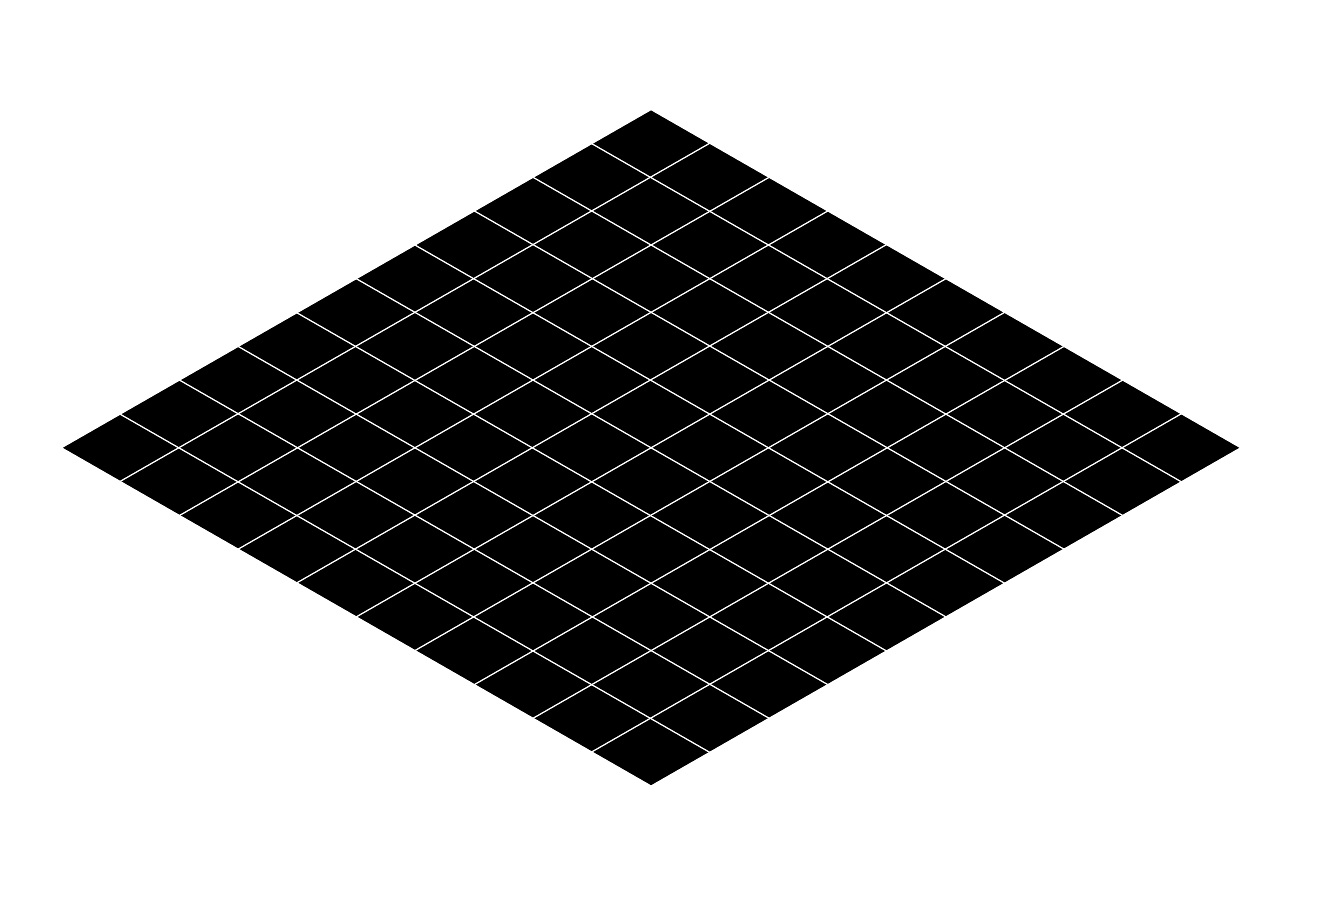
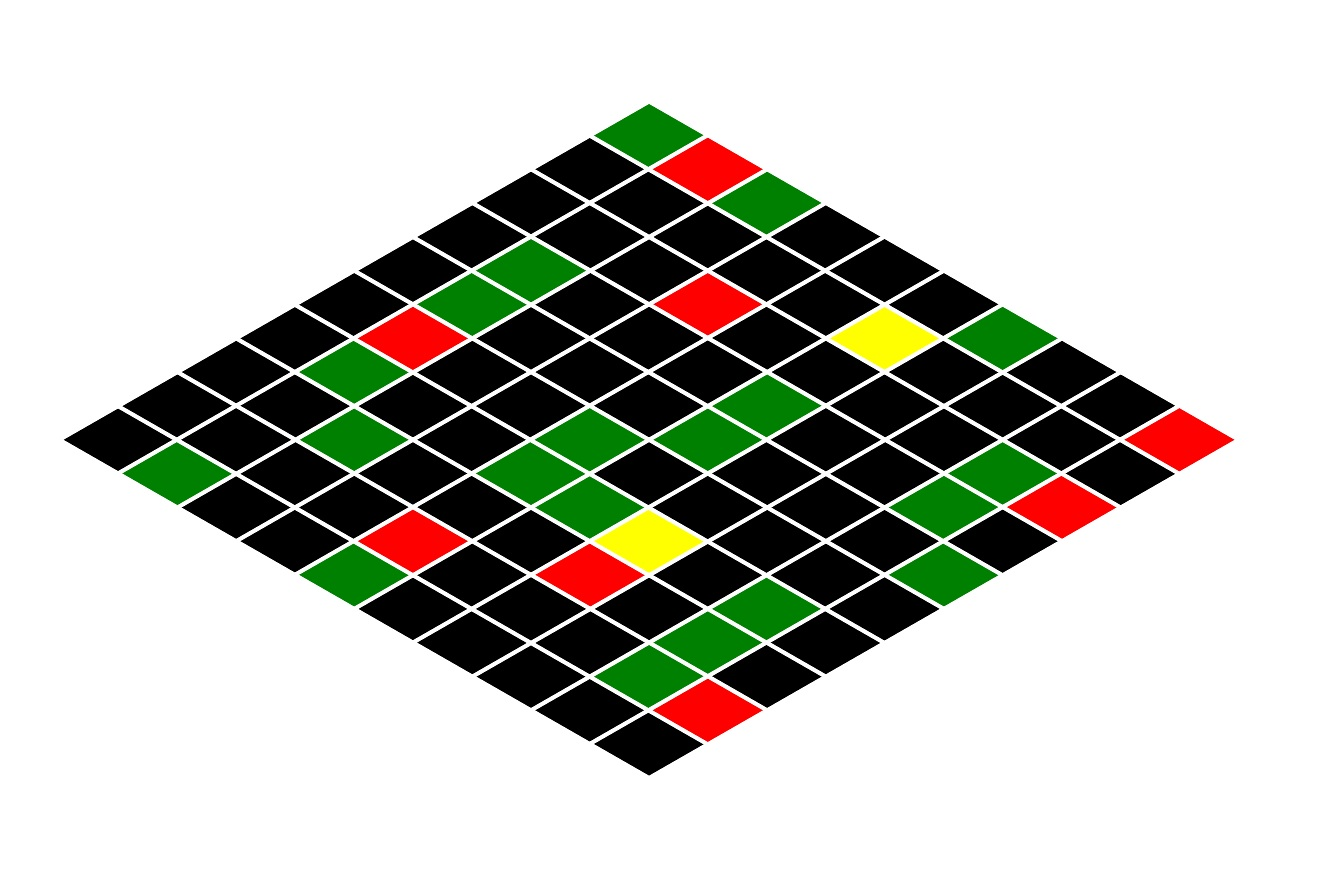
polished the initial idea

diff --git a/grid-game/script.js b/grid-game/script.js
@@ -26,7 +26,7 @@ function getRandomInt(min, max, num) {
 
 // Start the game by choosing goal tiles.
 var points = 0;
-var chosenNum = 50;
+var chosenNum = 30;
 let tileIdxs = getRandomInt(0, cellNum, chosenNum);
 for (idx of tileIdxs) {
 	document.getElementById(idx).className = "tile-goal";
@@ -55,37 +55,44 @@ var n2 = setInterval(function() {
 var n3 = setInterval(function() {
 	for (idx of tileIdxs) {
 		let currentTile = document.getElementById(idx).className;
-		if (currentTile == "tile-avoid" && !getRandomInt(0, 10, 1)[0]) {
+		if (currentTile == "tile-avoid" && !getRandomInt(0, 5, 1)[0]) {
 			document.getElementById(idx).className = "tile-goal";
 		}
 	}
 }, 3000);
 
-// Get the mouse hover value.
+// Get the mouse pointer value.
 // On hover over grid, change tile colors.
 // While hovering, check for the following:
 // if goal tile, gain a point,
 // but if an avoid tile, the player loses.
-document.addEventListener('mousemove', e => {
-	//console.clear()
-	let target = document.elementFromPoint(e.clientX, e.clientY);
-	if (target.classList.contains("tile")) {
-		target.className = "tile-touched";
+function playerLost() {
+	for (let i = 0; i < cellNum; i++) {
+		let tile = document.getElementById(i);
+		//tile.removeEventListener(type, listener)
+		tile.className = "tile-lost";
 	}
-	if (target.classList.contains("tile-goal") || target.classList.contains("tile-changing")) {
-		target.className = "tile-touched";
-		points += 1;
-		document.getElementById("counter").innerHTML = points + " / " + chosenNum;
-	}
-	if (target.classList.contains("tile-avoid")) {
-		clearInterval(n1);
-		clearInterval(n2);
-		clearInterval(n3);
-		for (let i = 0; i < cellNum; i++) {
-			let currentTile = document.getElementById(i).className;
-			document.getElementById(i).className = "tile-lost";
+	document.getElementById("reload").style.visibility = "visible";
+	document.getElementById("counter").innerHTML = points + " / " + chosenNum;
+}
+for (let i = 0; i < cellNum; i++) {
+	let tile = document.getElementById(i);
+	tile.addEventListener('mouseenter', enter => {
+		let startingClass = enter.target.className;
+		if (startingClass == "tile") {
 		}
-		document.getElementById("button").style.visibility = "visible";
-		document.getElementById("counter").innerHTML = points + " / " + chosenNum;
-	}
-}, {passive: true})
+		if (startingClass == "tile-goal" || startingClass == "tile-changing") {
+			points += 1;
+			document.getElementById("counter").innerHTML = points + " / " + chosenNum;
+		}
+		if (startingClass == "tile-touched") {
+			playerLost();
+		}
+		else if (startingClass == "tile-avoid") {
+			playerLost();
+		}
+		else {
+			enter.target.className = "tile-touched";
+		}
+	}, {passive: true})
+}

diff --git a/grid-game/style.css b/grid-game/style.css
@@ -1,4 +1,10 @@
 
+html {}
+
+body, input {
+	font-family: "Lucida Console";
+}
+
 body {
 	display: grid;
 	grid-template-columns: 1fr;
@@ -22,12 +28,16 @@ body {
 #counter {
 	position: absolute;
 	transform: translateY(35vmin);
+	font-size: 3vmin;
 }
 
-#button {
+#reload {
 	position: absolute;
 	transform: translateY(-35vmin);
 	visibility: hidden;
+	background-color: transparent;
+	padding: 1vmin;
+	font-size: 2vmin;
 }
 
 .tile {

diff --git a/grid-game/main.html b/grid-game/main.html
@@ -6,7 +6,7 @@
 <body>
 <div id="background"></div>
 <div id="counter"></div>
-<input id="button" type="button" value="reload?" onclick="window.location.reload();" />
+<input id="reload" type="button" value="reload?" onclick="window.location.reload();">
 </body>
 
 <script src="script.js"></script>
